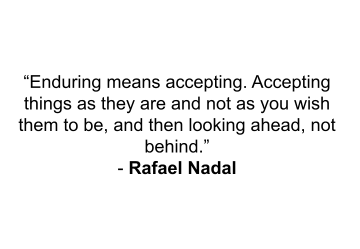
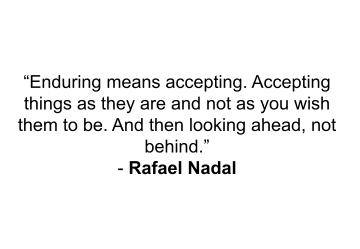
Descr: Made a change to the quote.

Changed region(s): [[0.0306, 0.4779, 0.9472, 0.5341]]

diff --git a/index.html b/index.html
@@ -157,7 +157,7 @@
 										</a>
 									<div class="caption">
 										<h3>Rafael Nadal</h3>
-										<p>"Enduring means accepting. Accepting things as they are and not as you wish them to be, and then looking ahead, not behind."</p>
+										<p>"Enduring means accepting. Accepting things as they are and not as you wish them to be. And then looking ahead, not behind."</p>
 									</div>
 								</article>
 
